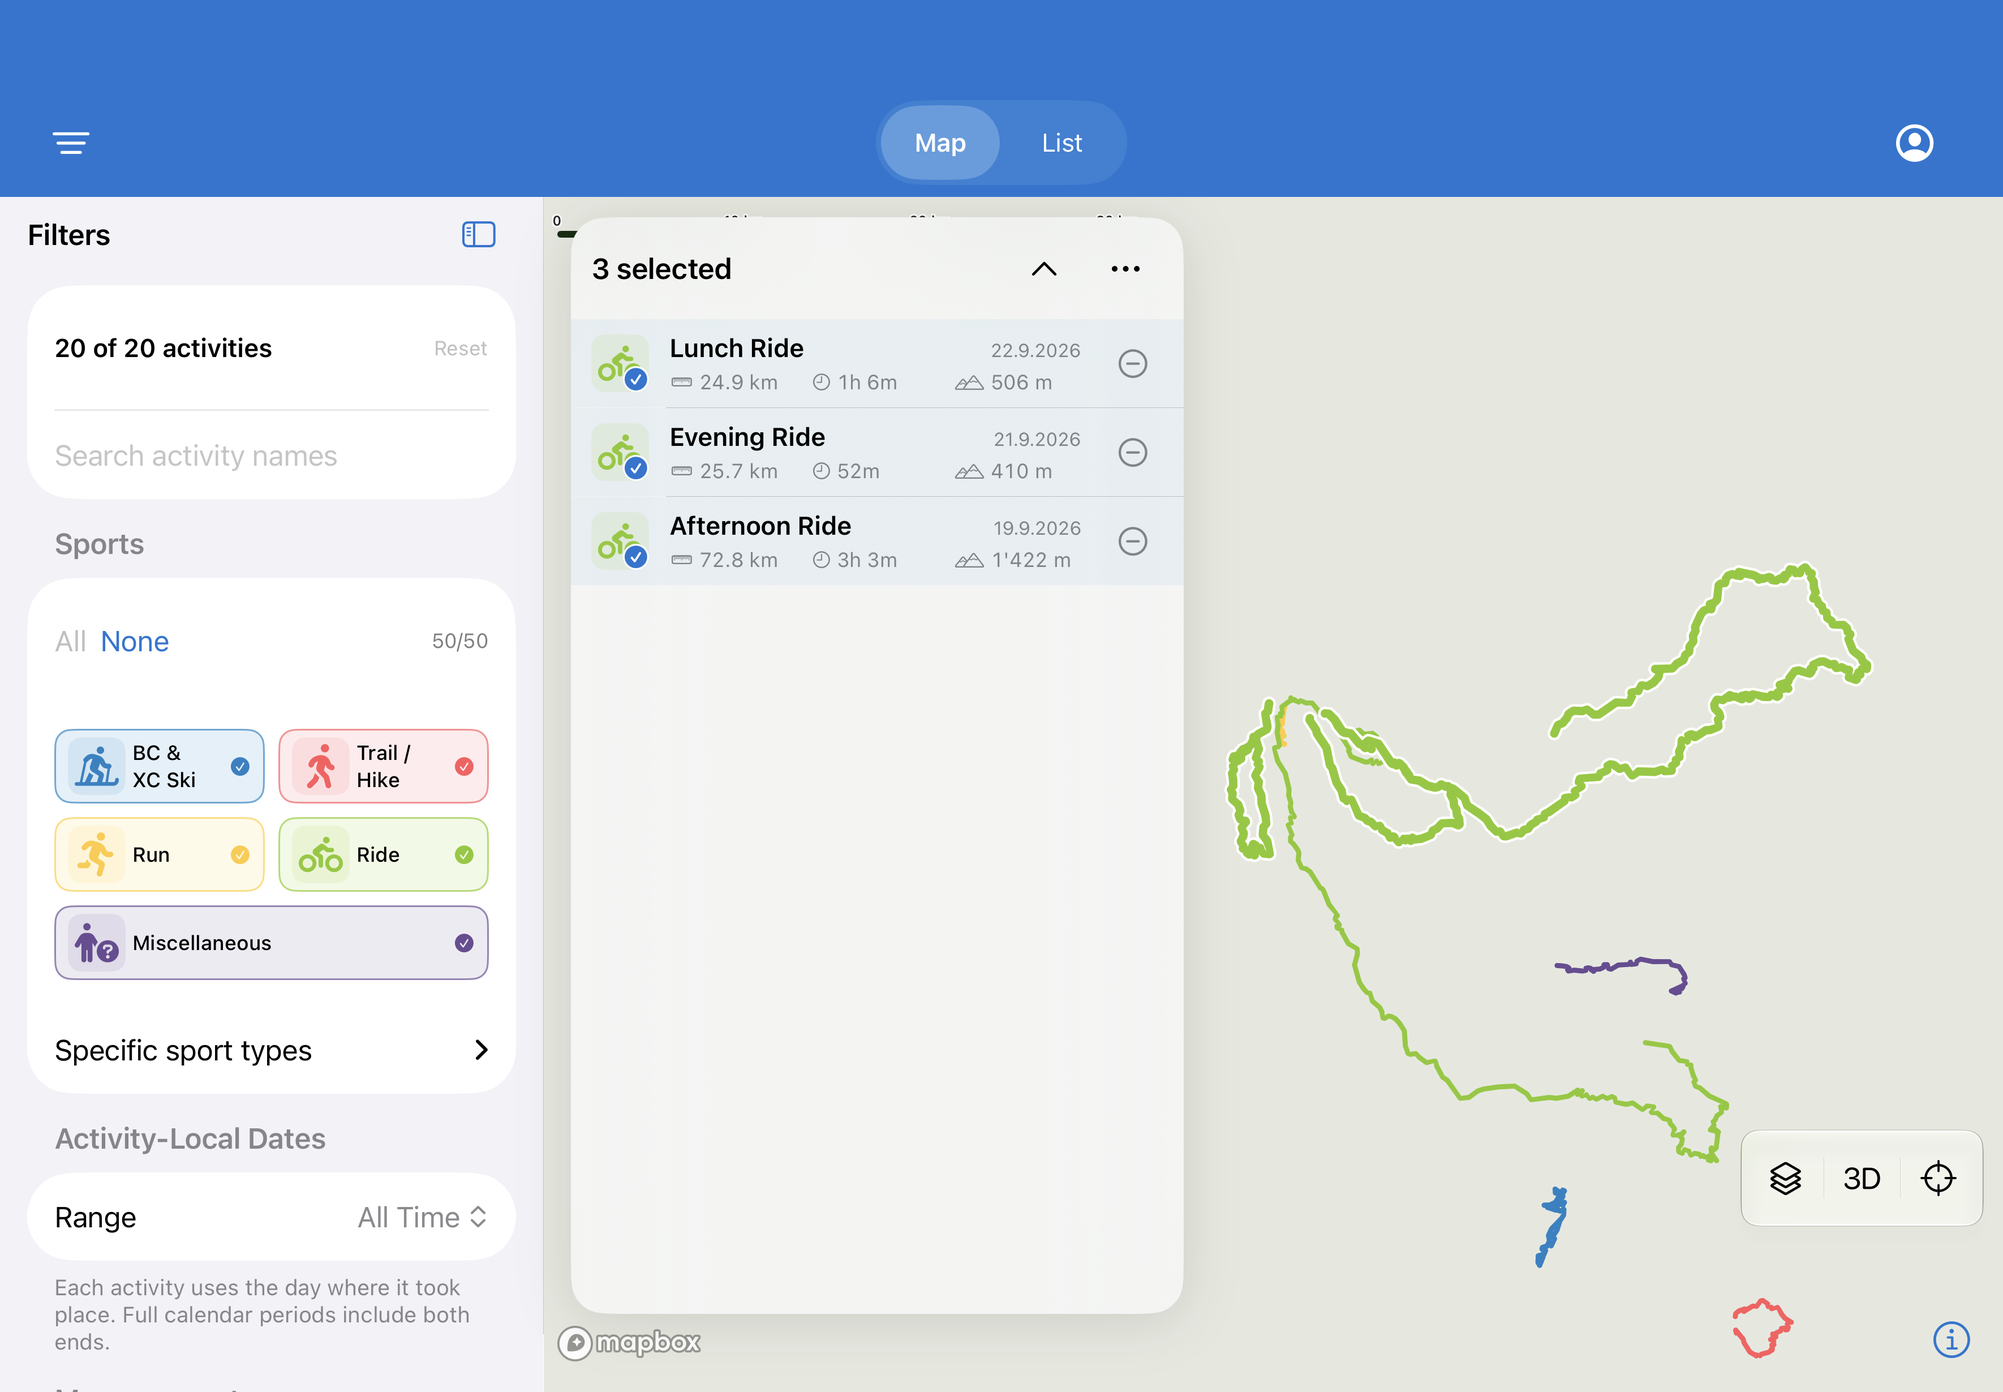
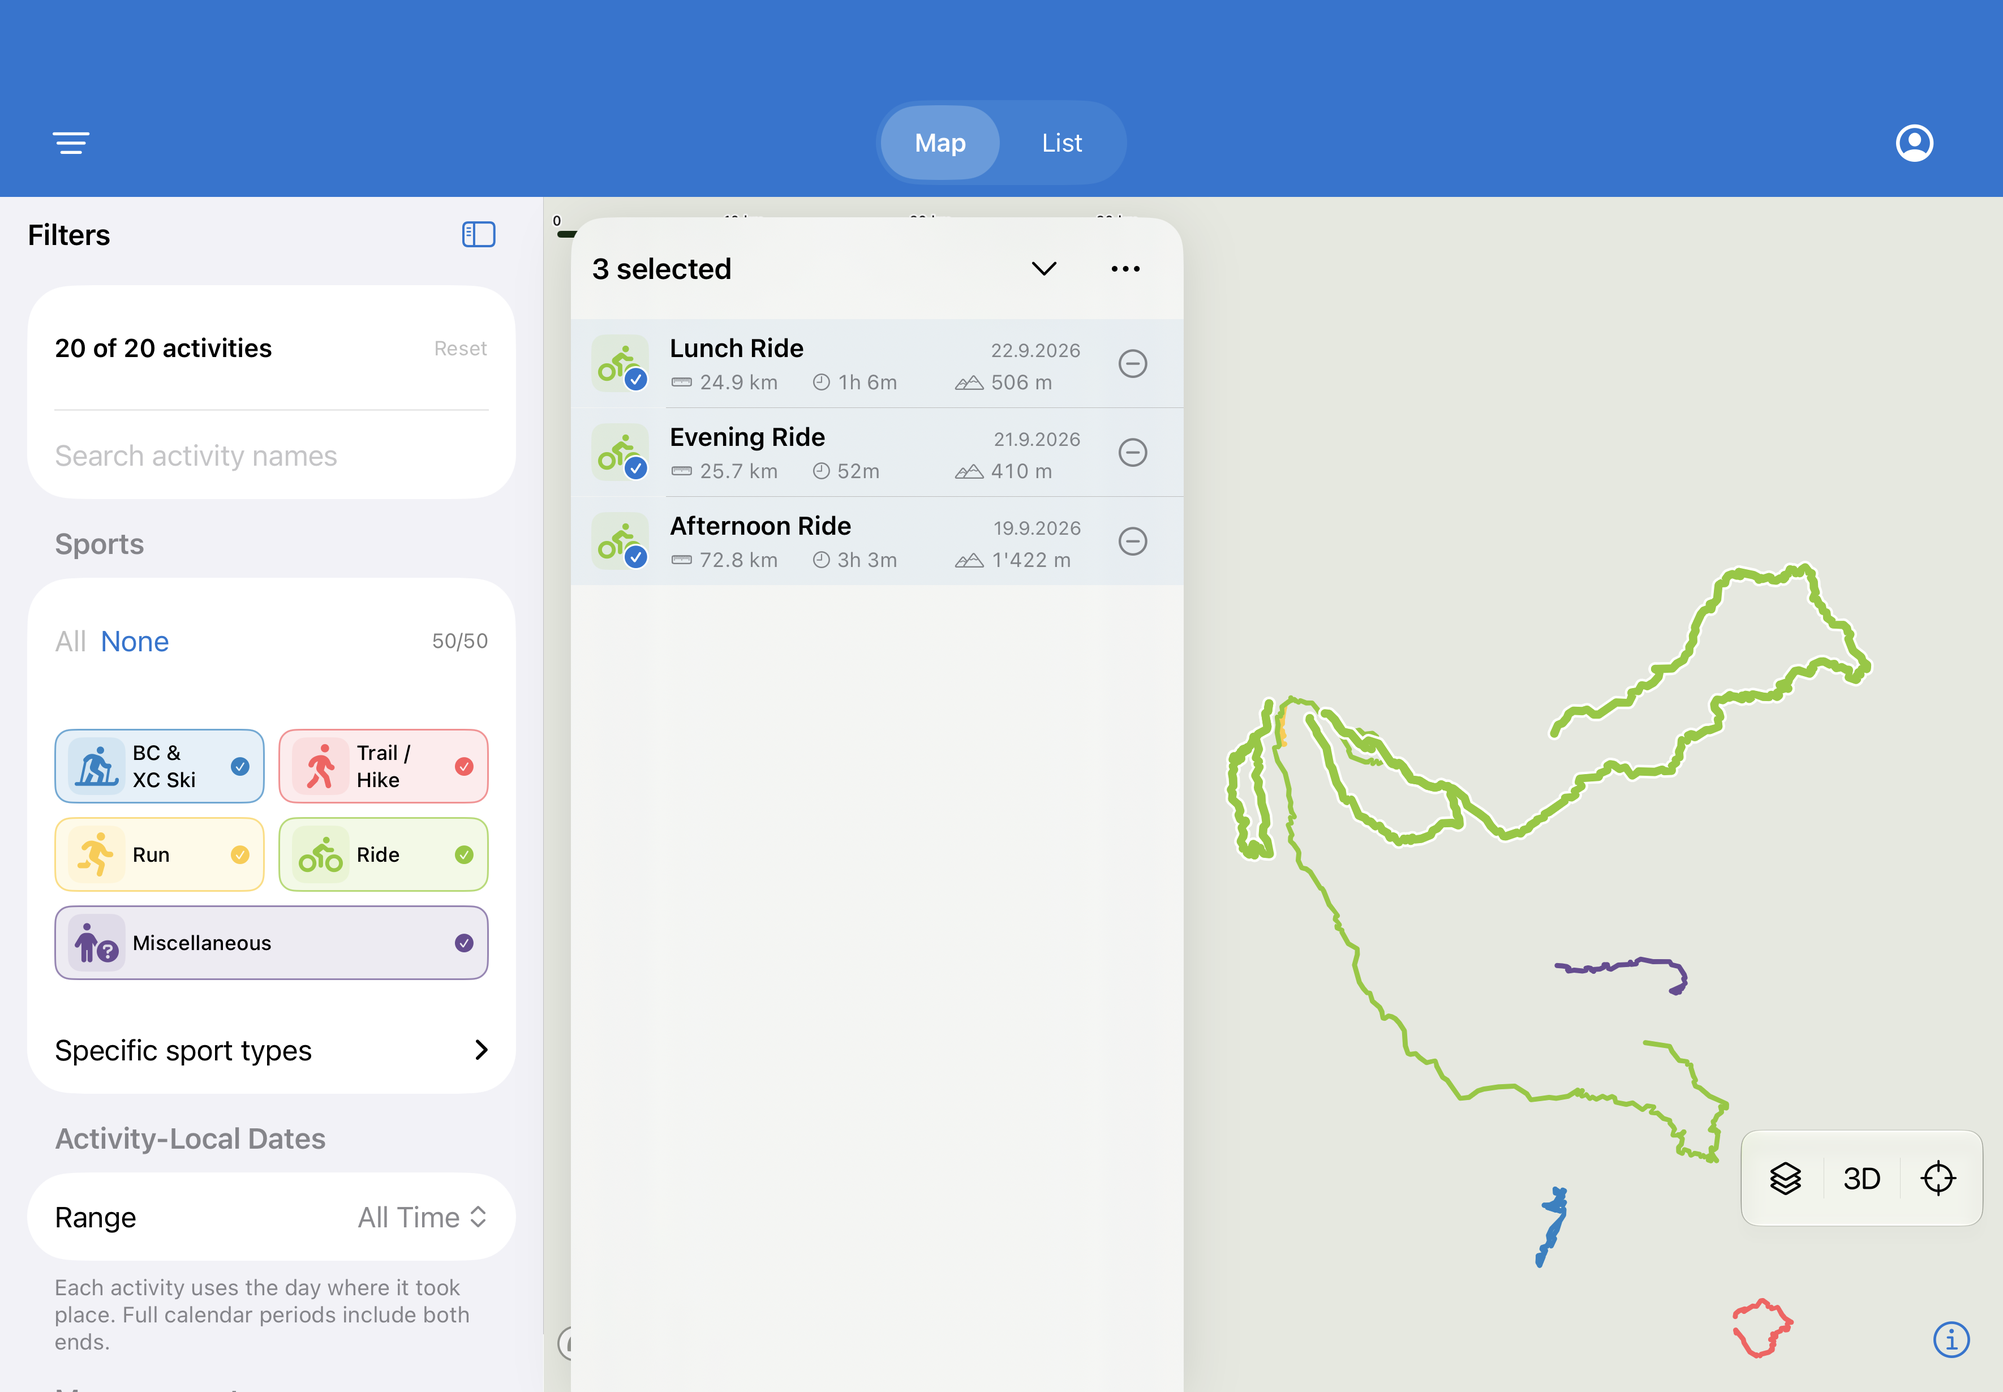
Attach wide map results to the bottom edge

Changed region(s): [[0.2797, 0.9268, 0.5904, 0.9886]]

diff --git a/ios/ActivityMap/ActivityMapTests/MapResultsTests.swift b/ios/ActivityMap/ActivityMapTests/MapResultsTests.swift
@@ -68,7 +68,8 @@ struct MapResultsTests {
                 #expect(layouts[0].contentHeight < layouts[1].contentHeight)
                 #expect(layouts[1].frame == layouts[2].frame)
                 #expect(layouts.allSatisfy { $0.bottomOcclusion == 0 && $0.leadingOcclusion == layouts[0].leadingOcclusion })
-                #expect(layouts[1].frame.maxY == size.height - 12)
+                #expect(layouts.allSatisfy { $0.frame.maxY == size.height + 21 }, "Both states meet the physical bottom edge through the safe area")
+                #expect(layouts[0].frame.minY > layouts[1].frame.minY, "Expansion moves the top edge upward")
                 let fit = MapResultsLayout.framing(size: size, topInset: 44, bottomInset: 21, detent: .compact, largeText: largeText)
                 #expect(fit.frame == layouts[1].frame, "Explicit fits reserve the full edge footprint")
             }
@@ -92,7 +93,7 @@ struct MapResultsTests {
     func detentsLeaveNavigationAvailable(size: CGSize) {
         for detent in MapResultsDetent.allCases {
             let layout = MapResultsLayout(size: size, topInset: 106, bottomInset: 34, detent: detent)
-            #expect(layout.frame.minY >= 118 && layout.frame.maxY <= size.height + (layout.isSidePanel ? 0 : 34))
+            #expect(layout.frame.minY >= 118 && layout.frame.maxY <= size.height + 34)
             #expect(layout.frame.minX >= (layout.isSidePanel ? 12 : 4) && layout.frame.maxX <= size.width)
             if layout.isSidePanel {
                 #expect(layout.leadingOcclusion + 16 < size.width / 2)

diff --git a/ios/ActivityMap/ActivityMap/Map/MapResultsContainer.swift b/ios/ActivityMap/ActivityMap/Map/MapResultsContainer.swift
@@ -1,6 +1,6 @@
 import SwiftUI
 
-/// Phones use the native sheet. Wide windows use a fixed edge card; expanding
+/// Phones use the native sheet. Wide windows use a bottom-leading card; expanding
 /// the card never changes selection, scroll context or the map camera.
 struct MapResultsContainer: View {
     @Bindable var picker: RoutePicker
@@ -9,15 +9,17 @@ struct MapResultsContainer: View {
     let topInset: CGFloat
     let bottomInset: CGFloat
     let largeText: Bool
+    @Environment(\.accessibilityReduceMotion) private var reduceMotion
 
     var body: some View {
         let layout = MapResultsLayout(size: size, topInset: topInset, bottomInset: bottomInset,
                                       detent: picker.detent, largeText: largeText)
         if layout.isSidePanel {
             if picker.isPresented {
-                RoutePickerSheet(picker: picker, store: store, isSidePanel: true)
+                RoutePickerSheet(picker: picker, store: store, isSidePanel: true, bottomInset: bottomInset)
                     .frame(width: layout.frame.width, height: layout.frame.height)
                     .position(x: layout.frame.midX, y: layout.frame.midY)
+                    .animation(reduceMotion ? nil : .easeInOut(duration: 0.2), value: picker.detent)
             }
         } else {
             NativeMapResultsSheet(picker: picker, store: store, size: size, largeText: largeText)

diff --git a/ios/ActivityMap/ActivityMap/Map/MapResultsLayout.swift b/ios/ActivityMap/ActivityMap/Map/MapResultsLayout.swift
@@ -32,7 +32,7 @@ struct MapResultsLayout {
         // Keep navigation clear. Map controls and credits remain at the map's
         // bottom edge behind this panel instead of reserving another top row.
         let top = topInset + 12
-        let available = max(120, size.height - top - 12)
+        let available = max(120, size.height - top - (isSidePanel ? 0 : 12))
         let compact = min(available, isSidePanel ? (largeText ? 116 : 64) : (largeText ? 240 : 156))
         let height: CGFloat
         switch detent {
@@ -41,8 +41,10 @@ struct MapResultsLayout {
         case .expanded: height = available
         }
         contentHeight = height
-        frame = CGRect(x: isSidePanel ? 16 : 4, y: isSidePanel ? top : size.height - contentHeight,
-                       width: width, height: contentHeight + (isSidePanel ? 0 : bottomInset))
+        // Both hosts rise from the bottom. On wide maps the lower edge stays
+        // anchored while the header moves upward to reveal the results.
+        frame = CGRect(x: isSidePanel ? 16 : 4, y: size.height - contentHeight,
+                       width: width, height: contentHeight + bottomInset)
         bottomOcclusion = isSidePanel ? 0 : contentHeight + bottomInset
         leadingOcclusion = isSidePanel ? frame.maxX + 12 : 0
     }

diff --git a/ios/ActivityMap/ActivityMap/Map/RoutePickerSheet.swift b/ios/ActivityMap/ActivityMap/Map/RoutePickerSheet.swift
@@ -54,7 +54,7 @@ struct RoutePickerSheet: View {
         .padding(.bottom, bottomInset)
         .background { if !nativePresentation { Rectangle().fill(.regularMaterial) } }
         .clipShape(UnevenRoundedRectangle(topLeadingRadius: isSidePanel ? 20 : 28,
-            bottomLeadingRadius: isSidePanel ? 20 : 0, bottomTrailingRadius: isSidePanel ? 20 : 0,
+            bottomLeadingRadius: 0, bottomTrailingRadius: 0,
             topTrailingRadius: isSidePanel ? 20 : 28))
         .shadow(color: .black.opacity(nativePresentation ? 0 : 0.12), radius: 16, y: 4)
         .accessibilityIdentifier("map-results-panel")
@@ -100,7 +100,7 @@ struct RoutePickerSheet: View {
                 if candidates.count > 1, let detail { detailNavigation(detail) }
             }
             Button { resize(to: collapsed ? .expanded : .compact) } label: {
-                Image(systemName: collapsed ? "chevron.down" : "chevron.up")
+                Image(systemName: collapsed ? "chevron.up" : "chevron.down")
                     .frame(width: 44, height: 44)
                     .contentShape(Rectangle())
             }

diff --git a/ios/ActivityMap/ActivityMapTests/RenderedMapContextTests.swift b/ios/ActivityMap/ActivityMapTests/RenderedMapContextTests.swift
@@ -297,7 +297,7 @@ extension RenderedRoutePickingTests {
         try FileManager.default.createDirectory(at: directory, withIntermediateDirectories: true)
         for detent in [MapResultsDetent.expanded, .compact, .expanded] {
             picker.detent = detent
-            try await Task.sleep(for: .milliseconds(150))
+            try await Task.sleep(for: .milliseconds(350))
             #expect(store.mapContext.pendingRequest == nil)
             #expect(abs(map.mapboxMap.cameraState.zoom - camera.zoom) < 0.001)
             #expect(map.mapboxMap.cameraState.padding == camera.padding)

diff --git a/docs/ios-ui-components.md b/docs/ios-ui-components.md
@@ -5,7 +5,7 @@
 - The single top destination control from #278 remains in use. `AppShell(statsContent:)` registers a real `BrowseStatsDestination` for #263; without it, no Stats button appears. `BrowseContent` retains all registered destinations and resets their identity on account/deployment scope changes.
 - `FilterPanel(scope:)` reuses the same editors for browsing and Stats. Stats uses the engine’s non-date count, excludes browsing dates from active-filter feedback, and routes Reset through `resetStatsActivityFilters`. Its period explanation discloses saved browsing dates without applying them. Search/count/reset share a compact section. The shell supplies a Done button and a full-height presentation for landscape phones and accessibility text.
 - `AccentColor` is the global system tint and explicit selection accent: #1976D2 on light surfaces, #90CAF9 on dark surfaces. The navigation background remains #1976D2. Shared sport badges have 26pt symbols within 34pt softly tinted shapes. Selected List rows add a leading mark and a checkmark; Map results retain a checkmark and separate active-route label. Inspection remains independent.
-- The approved wide-screen behavior is a fixed full-height edge card with explicit collapse/expand, not a draggable panel. Portrait phones retain their system sheet. See Map results and detail below.
+- The approved wide-screen behavior is a bottom-leading panel with explicit collapse/expand, not a draggable panel. Portrait phones retain their system sheet. See Map results and detail below.
 - The unused HeaderBar and FilterSidebar view wrapper are removed. The sidebar environment value remains the List detail-host input.
 
 The original component and capture notes below are historical where explicitly marked. Continuous-drag captures and regressions describe the removed implementation; current evidence is recorded in `docs/ios-navigation-identity-review.md`.
@@ -57,7 +57,7 @@ Map results navigate to the same detail panel and fixed actions in one continuou
 Two hosts present this content (`MapResultsContainer`):
 
 - **Phone portrait — native sheet (draft, #278).** `NativeMapResultsSheet` presents `RoutePickerSheet` with system detents (collapsed summary, content-aware opening height, `.large`), a visible drag indicator, background interaction up through large, and interactive dismissal disabled. See [Native phone map sheet draft](#native-phone-map-sheet-draft). The custom handle is not mounted in this host.
-- **Wide/landscape — fixed edge panel (#279).** Used when the map is ≥650pt wide or landscape. A 44pt button collapses to a header or expands to the full available height. Medium and expanded model detents both mean full height on this host. The custom MapResultsHandle, MapResultsDrag, resize state, interpolation and their obsolete regression tests are removed. Results and detail pages remain mounted, including their scroll/paging context. Camera fits retain the same leading occlusion across collapse/expand, and changing height never emits a camera request. The owner selected this option on 2026-10-03.
+- **Wide/landscape — bottom-leading panel (#279).** Used when the map is ≥650pt wide or landscape. A 44pt button collapses to a bottom-left header or expands upward to the full available height. Both states share the same bottom edge, at the physical bottom edge, with a Reduce Motion-aware transition. Medium and expanded model detents both mean full height on this host. The custom MapResultsHandle, MapResultsDrag, resize state, interpolation and their obsolete regression tests are removed. Results and detail pages remain mounted, including their scroll/paging context. Camera fits retain the same leading occlusion across collapse/expand, and changing height never emits a camera request. The owner selected this option on 2026-10-03.
 
 Map controls remain anchored at the viewport bottom-right across every results detent, behind the sheet/panel. Map no longer renders a separate provider-credit badge: all source credits use the SDK info menu, alongside its feedback and privacy/telemetry controls. The native Mapbox wordmark stays at bottom-left and the sole info button at bottom-right, at their normal map positions behind results, including wide side panels. Source attribution remains on raster base/overlay sources and is read from vector source metadata. [Mapbox requires the visible wordmark](https://docs.mapbox.com/help/dive-deeper/attribution/), including on third-party maps; [Swisstopo accepts centrally accessible source references](https://www.swisstopo.admin.ch/en/faq-free-geodata). Fully replacing the native info menu requires Mapbox review.
 
@@ -144,7 +144,7 @@ Filters occupy the leading navigation position, aligned with the iPad sidebar, a
 
 ## Native phone map sheet draft
 
-Portrait phone results use system presentation detents with background map interaction enabled. The collapsed summary, content-aware opening detent and large detent replace handle-only custom dragging. Opening height uses selected-route count with a half-height cap; detail starts around 300pt (larger for accessibility text). Manual compact/large choices survive content changes. Filters/account presentations temporarily suppress the map sheet, and changing tabs retains selection. Wide/landscape layouts use the fixed edge panel described above. Native gesture feel and map/paging interaction still require device review.
+Portrait phone results use system presentation detents with background map interaction enabled. The collapsed summary, content-aware opening detent and large detent replace handle-only custom dragging. Opening height uses selected-route count with a half-height cap; detail starts around 300pt (larger for accessibility text). Manual compact/large choices survive content changes. Filters/account presentations temporarily suppress the map sheet, and changing tabs retains selection. Wide/landscape layouts use the bottom-leading panel described above. Native gesture feel and map/paging interaction still require device review.
 
 ## Shell sheet handoff
 

diff --git a/docs/ios-navigation-identity-review.md b/docs/ios-navigation-identity-review.md
@@ -2,16 +2,16 @@
 
 Review for #254, #272 and #279, captured on 2026-10-03.
 
-The branch compacts the shared filter editor, adds the retained Stats destination/filter handoff, unifies brand and selection styling, and replaces wide-map custom dragging with an explicit fixed edge panel.
+The branch compacts the shared filter editor, adds the retained Stats destination/filter handoff, unifies brand and selection styling, and replaces wide-map custom dragging with an explicit bottom-leading panel.
 
 ## Decisions and scope
 
 - **#254:** keep the current single top destination control from #278; remove the unused older header/sidebar view. Search and count/reset share one section. Compact-height and accessibility filter presentations have full height and an explicit Done action. The shared editor retains all existing predicates, range validation and reset semantics.
 - **Stats handoff:** #263 registers real content with `AppShell(statsContent:)`. Only registration exposes Stats; the production app continues to offer Map/List. Registered content stays mounted with map/list and resets on account scope changes. Stats uses the existing non-date predicates and engine count, shows tile-period context and saved browsing dates, and resets non-date filters without deleting those dates.
 - **#272:** use #1976D2 as the brand blue, with #90CAF9 foregrounds on dark surfaces. The global accent asset now also styles native controls. Shared sport badges retain category glyphs/colors; selected rows add checkmarks and restrained blue surfaces, with a leading mark in List. Independent inspection does not select a row.
-- **#279:** the owner chose the fixed edge panel with collapse/expand on 2026-10-03. Wide-map medium/expanded states both use full available height; compact shows the header. A 44pt button and named accessibility actions replace custom dragging. Scroll, detail/page identity, selection and camera are retained. Explicit fits reserve the full leading footprint; collapse/expand do not refit.
+- **#279:** the owner chose the bottom-leading panel with collapse/expand on 2026-10-03. Wide-map medium/expanded states both use full available height; compact shows the header at the bottom-left. The panel extends through the bottom safe area, with square lower corners and inset content; its bottom stays anchored at the physical bottom edge while expansion moves the top upward. The owner refined the placement after reviewing screenshots; collapse/expand controls remain, with upward/downward chevrons and a Reduce Motion-aware transition. A 44pt button and named accessibility actions replace custom dragging. Scroll, detail/page identity, selection and camera are retained. Explicit fits reserve the full leading footprint; collapse/expand do not refit.
 
-Host choice still uses the **available map viewport**, not the device name: ≥650pt width or landscape uses the fixed edge card. A portrait iPad with the 320pt Filters sidebar open can leave a narrow map that uses the native sheet. No centered native sheet replaces the existing wide edge layout.
+Host choice still uses the **available map viewport**, not the device name: ≥650pt width or landscape uses the bottom-leading card. A portrait iPad with the 320pt Filters sidebar open can leave a narrow map that uses the native sheet. No centered native sheet replaces the existing wide edge layout.
 
 The original native-tab-bar design and acceptance of the remaining #278 shell/filter drafts are not claimed complete here. The working Stats dashboard remains #263. Phone collapsed-summary and transition refinements remain #285/#284; map-control placement remains #282. Physical-device touch/VoiceOver acceptance remains #228.
 
@@ -37,11 +37,11 @@ The 1180×820 production shell with Filters open leaves an 860pt map and uses th
 | --- | --- |
 | ![Wide shell expanded](ios-navigation-identity/wide-shell-expanded.png) | ![Wide shell collapsed](ios-navigation-identity/wide-shell-collapsed.png) |
 
[2 lines of base64/hex data omitted]
 
 ## Validation
 
-Final run: **217 tests passed (345 parameterized runs), zero failures, two opt-in tests skipped** on iPhone 18 Pro / iOS 27.0 Simulator. Result bundle: `/tmp/activitymap-navigation-build/Logs/Test/Test-ActivityMap-2026.10.03_07-45-37-+0200.xcresult`. Both 20-capture galleries validated successfully. `git diff --check` passes.
+Final run: **217 tests passed (345 parameterized runs), zero failures, two opt-in tests skipped** on iPhone 18 Pro / iOS 27.0 Simulator. Result bundle: `/tmp/activitymap-navigation-build/Logs/Test/Test-ActivityMap-2026.10.03_08-23-19-+0200.xcresult`. Both 20-capture galleries validated successfully. `git diff --check` passes.
 
 Run the complete simulator suite:
 
